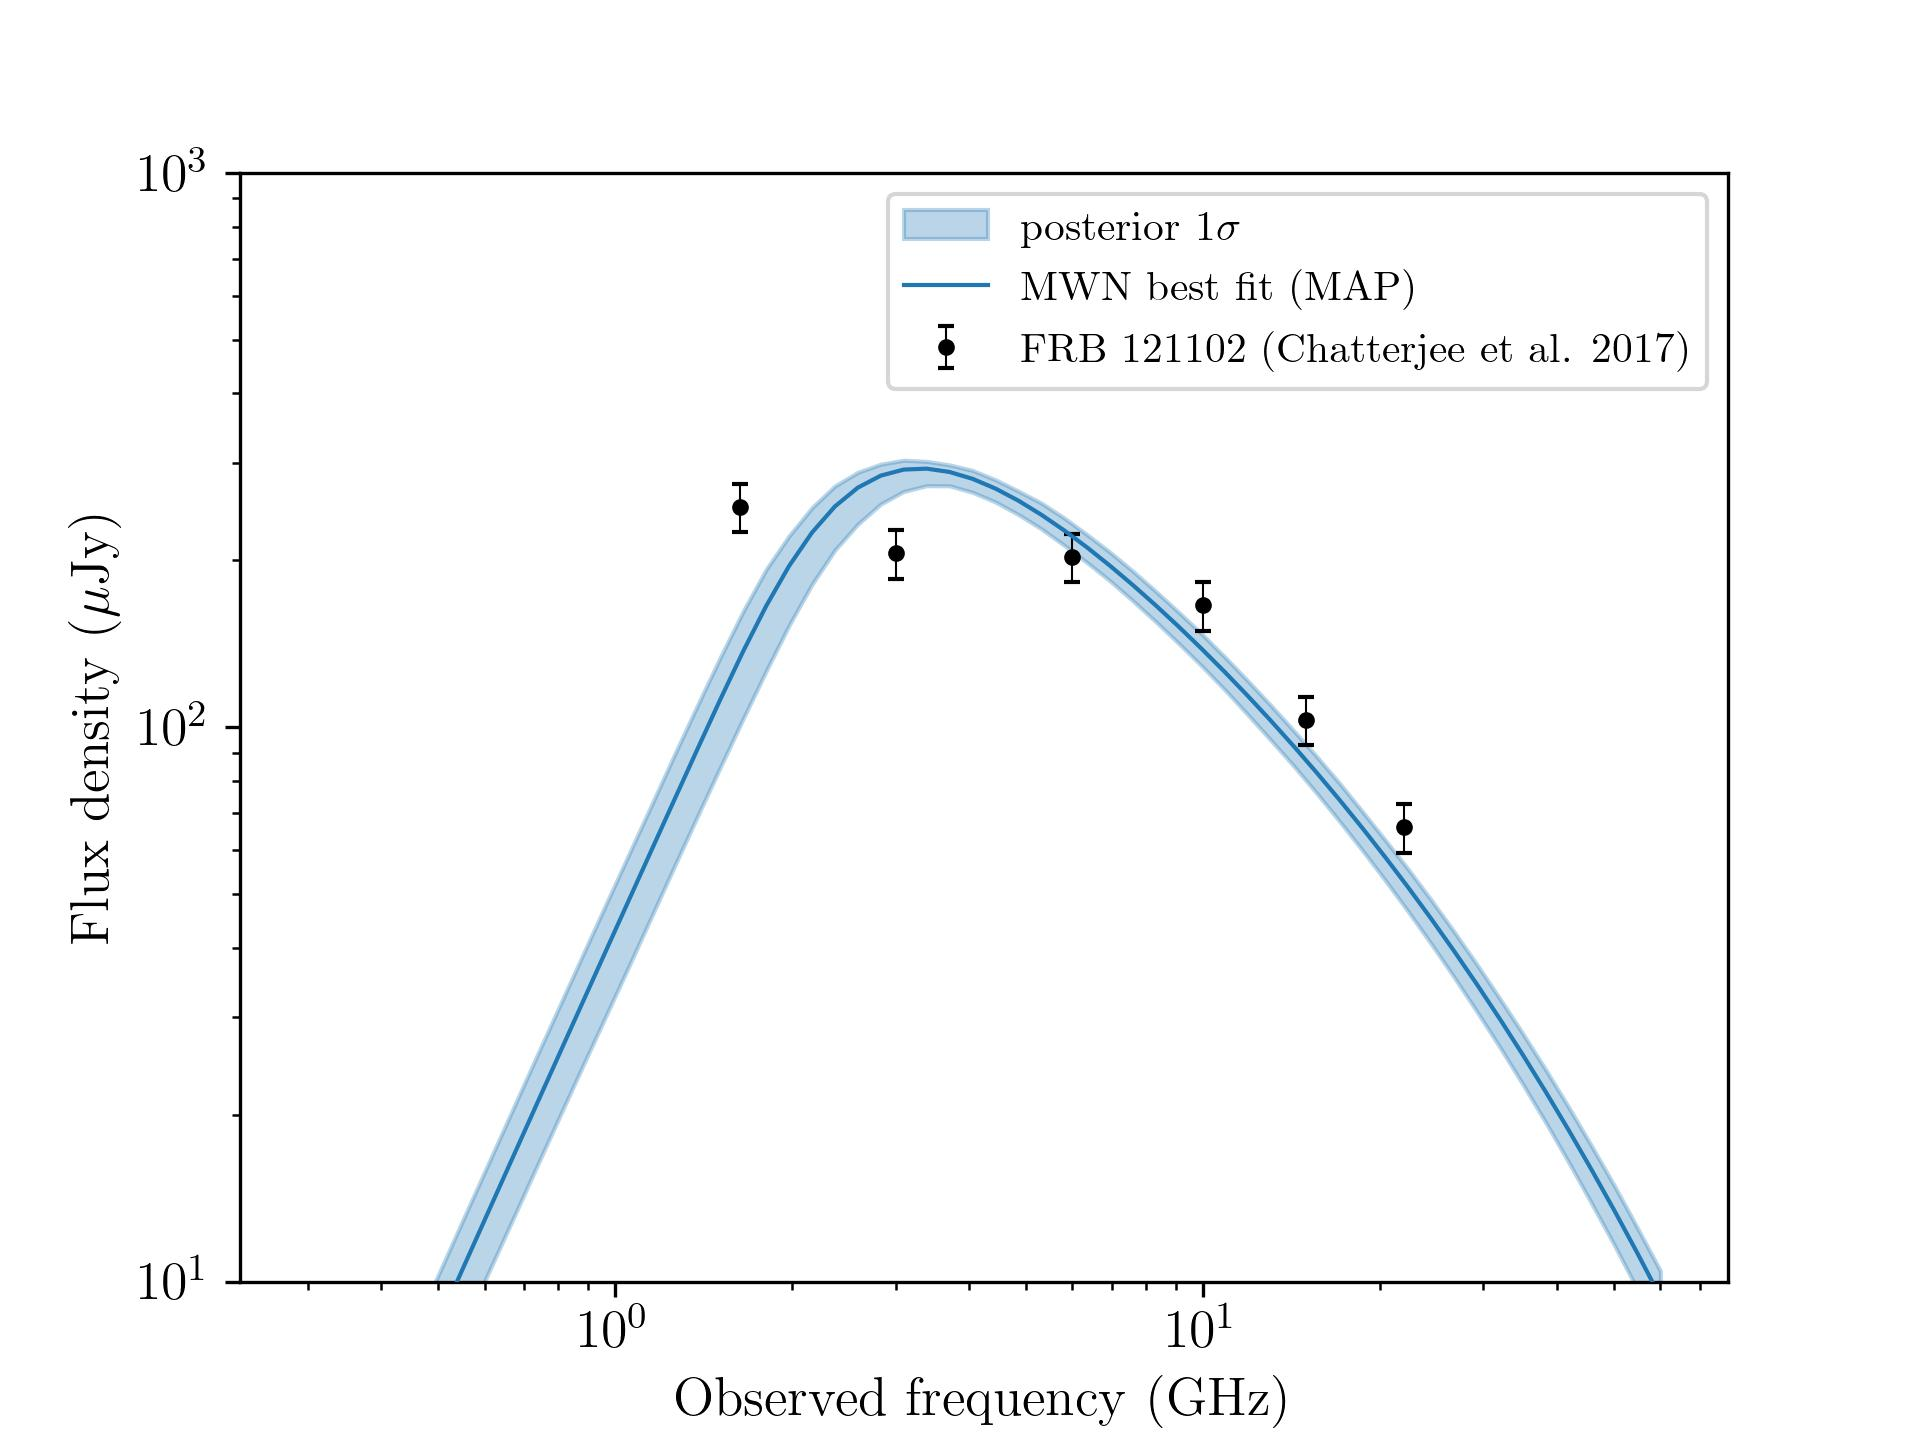
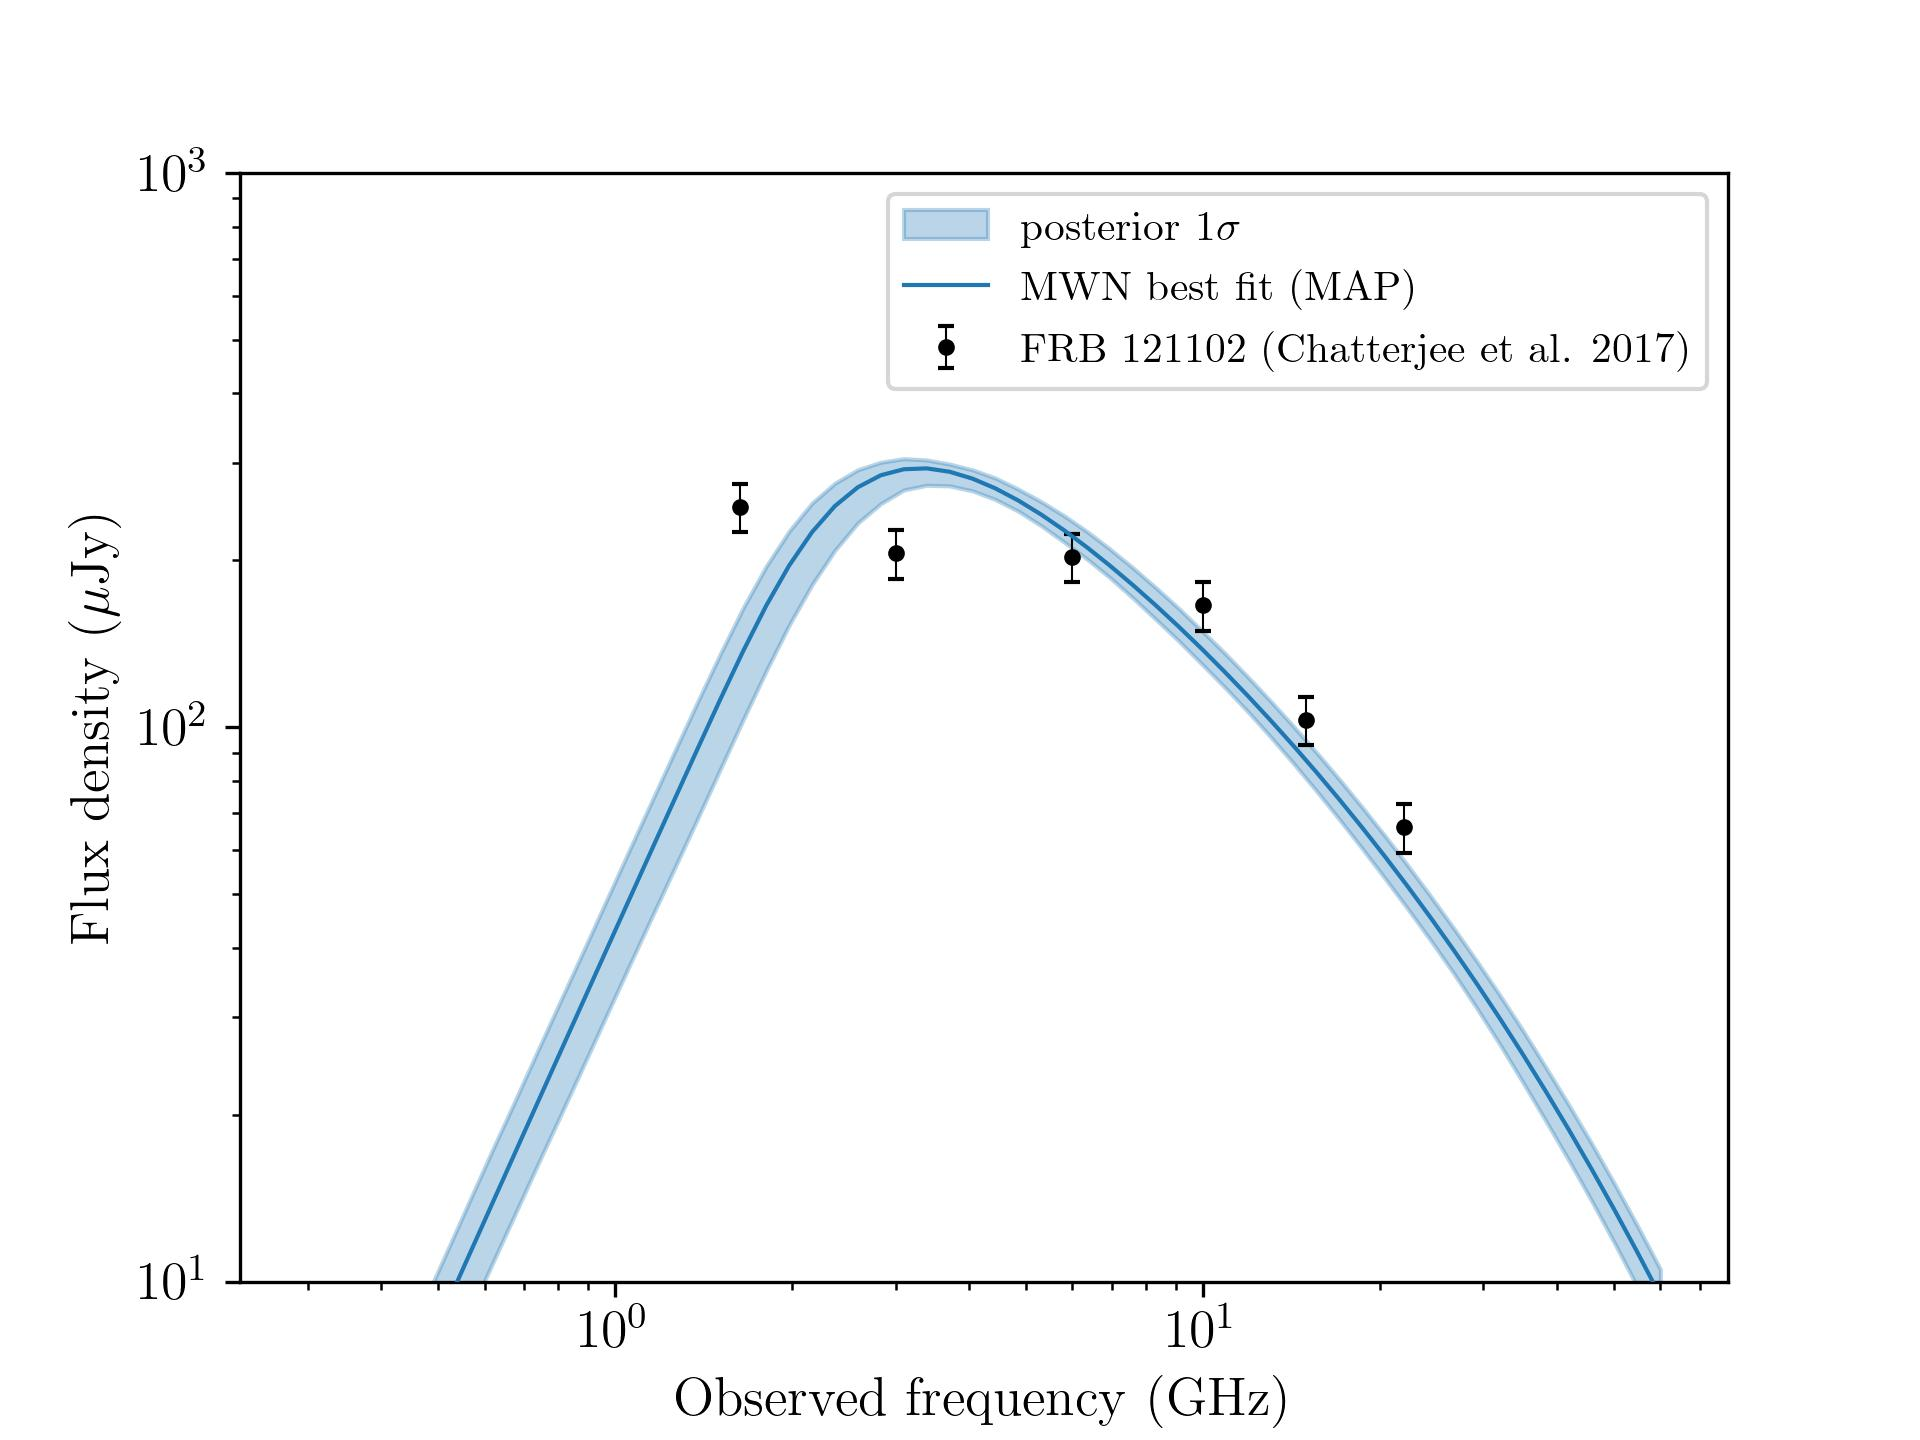
Rerun the MCMC fit on the kinetic-energy grid
The likelihood grid was tuned for the old gam-spaced grid; on the new one,
which spans 11 decades instead of 5, n_gam = 150 gave an 11% flux error --
comparable to the 10% data errors. Grid settings are now explicit in
fixed_params (kin_min = 1e-4, gam_max = 1e5, n_gam = 250, n_t = 600), which
costs ~0.23 s per likelihood call and holds the model error to 0.2% on the RM
and 3.5% on the fluxes.

64 walkers x 3000 steps, autocorrelation time 57-75. Results are unchanged
within their errors, confirming the grid change did not bias the fit:

                        old grid              new grid
  log10(E_B*)    50.82 (+0.10,-0.07)   50.83 (+0.10,-0.08)
  alpha           1.71 (+0.12,-0.22)    1.68 (+0.16,-0.18)
  log10(v_n)      8.88 (+0.08,-0.13)    8.88 (+0.08,-0.13)
  log10(t_age)    0.81 (+0.13,-0.03)    0.82 (+0.13,-0.04)
  R_n             1.66e17 cm (+-11%)    1.68e17 cm (+-11%)
  chi^2 / dof            48.60 / 3             48.64 / 3

The MAP now reproduces the observed RM to 1.4608e5 against 1.46e5. Also noted
in the README that alpha pushes lightly against its upper bound of 1.95, which
comes from eq. (11) being singular at alpha = 2.

.gitignore: widen the chain pattern so alternative chains are covered too.

diff --git a/MWN_MCMC_fit.py b/MWN_MCMC_fit.py
@@ -32,8 +32,13 @@ fixed_params = {
     "sigma": 0.1,  # magnetisation of the injected outflow
     "B_16": 1.0,  # unused, E_B_star is fitted directly instead of eq. (1)
     "t_0": 0.2,  # yr ; these data do not constrain it, so it is fixed as in the paper
-    "n_gam": 150,  # Lorentz factor grid points
-    "n_t": 400,  # time steps from t_0 to t_age
+    # grid: coarse enough for ~0.2 s per likelihood call, fine enough that the
+    # model error (0.2% on RM, 3.5% on the fluxes) stays well inside the 10% data
+    # errors.  kin_min is a floor on gam - 1, see calc_gam_grid.
+    "kin_min": 1e-4,
+    "gam_max": 1e5,
+    "n_gam": 250,  # Lorentz factor grid points
+    "n_t": 600,  # time steps from t_0 to t_age
     "z": 0.1927,  # redshift of FRB 121102
     "D_L_Mpc": 972.0,  # Mpc ; luminosity distance
 }
@@ -88,7 +93,8 @@ RM_err = 0.10 * RM_obs
 
 
 def MWN_flux_density(
-    nu, E_B_star, t_0, alpha, v_n, t_age, xi, xi_min, sigma, B_16, n_gam, n_t, z, D_L_Mpc
+    nu, E_B_star, t_0, alpha, v_n, t_age, xi, xi_min, sigma, B_16, kin_min, gam_max,
+    n_gam, n_t, z, D_L_Mpc,
 ):
     """
     Evolves eq. (7) from t_0 to t_age for one parameter set and returns the flux
@@ -97,7 +103,7 @@ def MWN_flux_density(
 
     t_0 and t_age come in years, everything internal is cgs and seconds.
     """
-    gam, du, dgam = calc_gam_grid(1e-6, 1e5, n_gam)
+    gam, du, dgam = calc_gam_grid(kin_min, gam_max, n_gam)
     t = np.logspace(np.log10(t_0 * yr), np.log10(t_age * yr), n_t)
 
     # nu_arr is left empty so that no light curve is built at every step -- only

diff --git a/README.md b/README.md
@@ -61,11 +61,15 @@ is what makes `t_age` identifiable, as in the paper. Four free parameters: `E_B*
 in the paper (`t_0` is not constrained by these data). The paper's own Fig. 1 limits
 `t_age > 6 yr` and `2 R_n < 0.66 pc` are imposed as priors.
 
+The grid used inside the likelihood is set in `fixed_params` and is coarser than the
+default, for ~0.23 s per call: the resulting model error (0.2% on the RM, 3.5% on the
+fluxes) stays well inside the 10% data errors.
+
 `MCMC_plotter.py` reports the best fit, the corner plot and the walks.
 
 ![Best fit spectrum](MWN_best_fit_spectrum.jpg)
 
-64 walkers x 3028 steps, autocorrelation time 51–70.
+64 walkers x 3000 steps, autocorrelation time 57–75.
 
 ![Corner plot](best_fit_corner_plot_MWN.jpg)
 
@@ -76,11 +80,11 @@ only their product `R_n` is measured. Dashed crosshairs mark the MAP.
 
 | parameter | marginal | MAP | model A | model B | model C |
 |---|---|---|---|---|---|
-| `log10(E_B*/erg)` | 50.82 (+0.10, −0.07) | 50.88 | 50.70 | 50.70 | 51.69 |
-| `alpha`           | 1.71 (+0.12, −0.22)  | 1.83  | 1.30  | 1.30  | 1.83  |
-| `log10(v_n)`      | 8.88 (+0.08, −0.13)  | 8.94  | 8.48  | 8.00  | 8.95  |
-| `log10(t_age/yr)` | 0.81 (+0.13, −0.03)  | 0.80  | 1.09  | 1.58  | 1.12  |
-| **`R_n = v_n t_age`** | **1.66e17 cm (±11%)** | 1.72e17 | 1.17e17 | 1.19e17 | 3.72e17 |
+| `log10(E_B*/erg)` | 50.83 (+0.10, −0.08) | 50.90 | 50.70 | 50.70 | 51.69 |
+| `alpha`           | 1.68 (+0.16, −0.18)  | 1.86  | 1.30  | 1.30  | 1.83  |
+| `log10(v_n)`      | 8.88 (+0.08, −0.13)  | 8.96  | 8.48  | 8.00  | 8.95  |
+| `log10(t_age/yr)` | 0.82 (+0.13, −0.04)  | 0.79  | 1.09  | 1.58  | 1.12  |
+| **`R_n = v_n t_age`** | **1.68e17 cm (±11%)** | 1.74e17 | 1.17e17 | 1.19e17 | 3.72e17 |
 
 Quote the marginal column as the constraint; the MAP is the actual best-fitting sample
 and is what the curves above are drawn at. **These differ because the parameters are
@@ -93,20 +97,21 @@ The fit lands on model A's energy scale and model C's `alpha` and `v_n`, with a 
 radius between the two. `R_n` is the best-determined quantity — consistent with the
 paper's analytic argument (eqs. 17–22) that `E_B*` and `R_n` are what the RM and the
 self-absorption constraint actually pin down. At the MAP the RM comes out
-1.438e5 rad m^-2 against the observed 1.46e5 (0.15 sigma).
+1.4608e5 rad m^-2 against the observed 1.46e5.
 
 Two honest caveats:
 
 - **Reduced chi^2 = 16** (chi^2 = 48.6, 3 dof). 79% of it comes from the two lowest
   frequencies: 1.63 GHz (model 133 vs 250 uJy) and 3 GHz (290 vs 206); every other
-  point is within 2 sigma and the RM within 0.2 sigma. This is the same failure the
-  paper reports — the one-zone model's self-absorption turnover is sharper than the
-  observed spectrum. The assumed 10% errors are also optimistic for a source known to
-  vary.
-- **`t_age` rails against the 6 yr prior floor** (24% of samples within 0.05 dex of it).
+  point is within 2 sigma and the RM is matched essentially exactly. This is the same
+  failure the paper reports — the one-zone model's self-absorption turnover is sharper
+  than the observed spectrum. The assumed 10% errors are also optimistic for a source
+  known to vary.
+- **`t_age` rails against the 6 yr prior floor** (23% of samples within 0.05 dex of it).
   The spectrum and RM on their own prefer a younger, faster-expanding nebula than the
   paper's 12.4 yr; the 6 yr limit comes from the source having been active since
-  discovery, not from these data.
+  discovery, not from these data. `alpha` also pushes lightly against its upper bound
+  of 1.95 (3% of samples), which is set by eq. (11) being singular at `alpha = 2`.
 
 ## Usage
 
